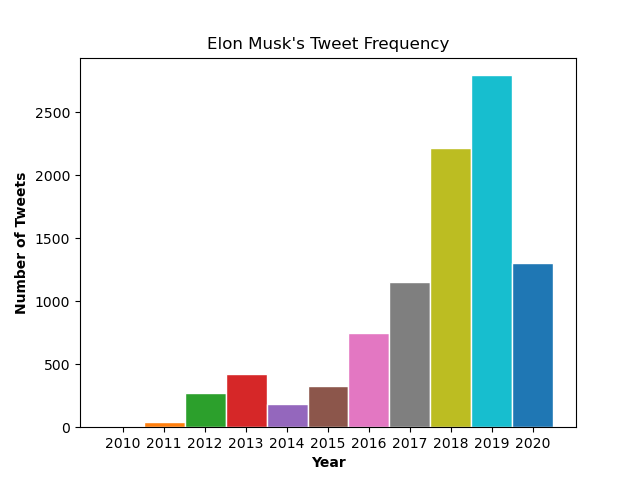
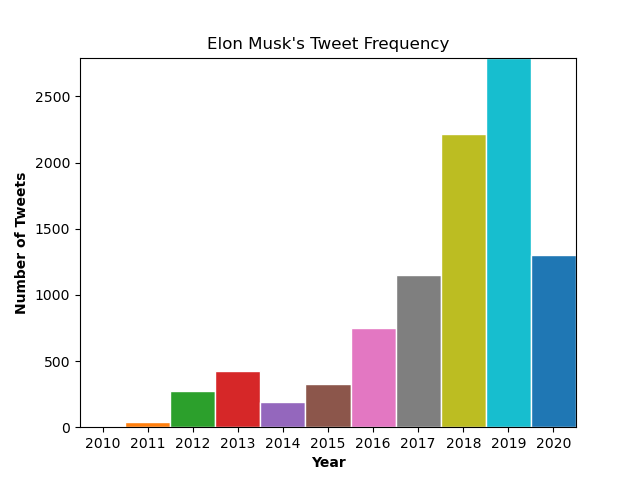
vizual

diff --git a/src/vizualizations.py b/src/vizualizations.py
@@ -42,8 +42,87 @@ def frequency():
     plt.ylabel('Number of Tweets', fontweight='bold')
     plt.title('Elon Musk\'s Tweet Frequency')
     plt.xticks([r for r in range(11)], [ "2010", "2011", "2012", "2013", "2014", "2015", "2016", "2017","2018", "2019", "2020" ])
+    plt.autoscale(tight=True)
 
     plt.show()
 
 
+def sentiment_graph():
+    df = pd.read_csv('./data/elon_musk_tweets_sentiments.csv')
+    '''neg0, neu0, pos0 = (0, ) * 3
+    neg1, neu1, pos1 = (0, ) * 3
+    neg2, neu2, pos2 = (0, ) * 3
+    neg3, neu3, pos3 = (0, ) * 3
+    neg4, neu4, pos4 = (0, ) * 3
+    neg5, neu5, pos5 = (0, ) * 3
+    neg6, neu6, pos6 = (0, ) * 3
+    neg7, neu7, pos7 = (0, ) * 3
+    neg8, neu8, pos8 = (0, ) * 3
+    neg9, neu9, pos9 = (0, ) * 3
+    neg10, neu10, pos10 = (0, ) * 3'''
+
+    neg, neu, pos = (0,) * 3
+
+    for value in df['polarity']:
+        if value < -0.1:
+            neg += 1
+        elif value > 0.1:
+            pos += 1
+        else:
+            neu += 1
+
+    '''    
+    v2010 = [neg0, neu0, pos0]
+    v2011 = [neg1, neu1, pos1]
+    v2012 = [neg2, neu2, pos2]
+    v2013 = [neg3, neu3, pos3]
+    v2014 = [neg4, neu4, pos4]
+    v2015 = [neg5, neu5, pos5]
+    v2016 = [neg6, neu6, pos6]
+    v2017 = [neg7, neu7, pos7]
+    v2018 = [neg8, neu8, pos8]
+    v2019 = [neg9, neu9, pos9]
+    v2020 = [neg10, neu10, pos10]
+
+    neg = [neg0, neg1, neg2, neg3, neg4, neg5, neg6, neg7, neg8, neg9, neg10]
+    neu = [neu0, neu1, neu2, neu3, neu4, neu5, neu5, neu7, neu8, neu9, neu10]
+    pos = [pos0, pos1, pos2, pos3, pos4, pos5, pos6, pos7, pos8, pos9, pos10]
+    barWidth = 1
+
+    plt.bar(0, neg, width=barWidth, edgecolor='white', align='center', label=str(2010))
+    plt.bar(1, neu, width=barWidth, edgecolor='white', align='center', label=str(2011))
+    plt.bar(2, pos, width=barWidth, edgecolor='white', align='center', label=str(2012))
+
+    plt.bar(0, v2010, width=barWidth, edgecolor='white', align='center', label=str(2010))
+    plt.bar(1, v2011, width=barWidth, edgecolor='white', align='center', label=str(2011))
+    plt.bar(2, v2012, width=barWidth, edgecolor='white', align='center', label=str(2012))
+    plt.bar(3, v2013, width=barWidth, edgecolor='white', align='center', label=str(2013))
+    plt.bar(4, v2014, width=barWidth, edgecolor='white', align='center', label=str(2014))
+    plt.bar(5, v2015, width=barWidth, edgecolor='white', align='center', label=str(2015))
+    plt.bar(6, v2016, width=barWidth, edgecolor='white', align='center', label=str(2016))
+    plt.bar(7, v2017, width=barWidth, edgecolor='white', align='center', label=str(2017))
+    plt.bar(8, v2018, width=barWidth, edgecolor='white', align='center', label=str(2018))
+    plt.bar(9, v2019, width=barWidth, edgecolor='white', align='center', label=str(2019))
+    plt.bar(10, v2020, width=barWidth, edgecolor='white', align='center',label=str(2020))
+    
+    plt.xlabel('Sentiment Value', fontweight='bold')
+    plt.ylabel('Number of Tweets', fontweight='bold')
+    plt.title('Sentiment Analysis Frequency')
+    plt.xticks([r for r in range(3)], [ "2010", "2011", "2012"])
+'''
+    ax = plt.subplot(111)
+    w = 0.3
+    ax.bar(0, neg, width=w, color='b', align='center')
+    ax.bar(1, neu, width=w, color='g', align='center')
+    ax.bar(2, pos, width=w, color='r', align='center')
+    ax.autoscale(tight=True)
+
+    plt.xlabel('Sentiment Value', fontweight='bold')
+    plt.ylabel('Number of Tweets', fontweight='bold')
+    plt.title('Sentiment Analysis Frequency')
+    plt.xticks([r for r in range(3)], ["negative", "neutral", "positive"])
+    plt.show()
+
+
 frequency()
+sentiment_graph()
